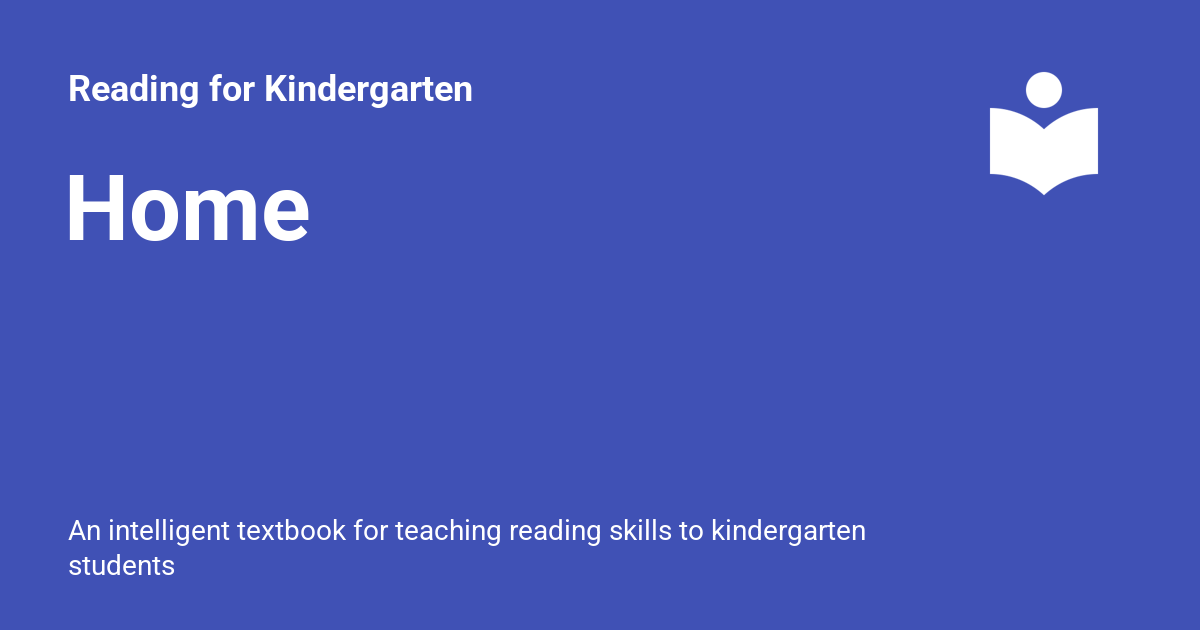
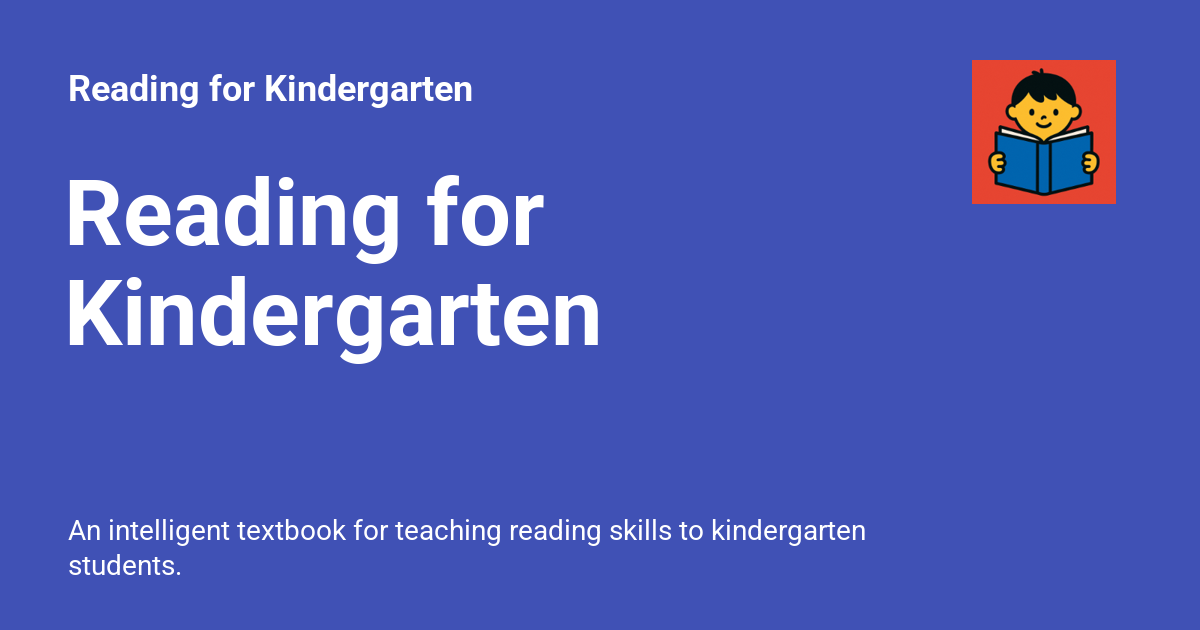
Deployed 79a324a with MkDocs version: 1.6.1

Changed region(s): [[0.0308, 0.4222, 0.5242, 0.573], [0.0617, 0.2714, 0.4625, 0.4222], [0.8017, 0.0905, 0.9558, 0.3317]]

diff --git a/index.html b/index.html
@@ -6,7 +6,7 @@
       <meta charset="utf-8">
       <meta name="viewport" content="width=device-width,initial-scale=1">
       
-        <meta name="description" content="An intelligent textbook for teaching reading skills to kindergarten students">
+        <meta name="description" content="An intelligent textbook for teaching reading skills to kindergarten students.">
       
       
         <meta name="author" content="Dan McCreary">
@@ -24,7 +24,7 @@
     
     
       
-        <title>Reading for Kindergarten</title>
+        <title>Reading for Kindergarten - Reading for Kindergarten</title>
       
     
     
@@ -63,9 +63,9 @@
       
         <meta  property="og:title"  content="Reading for Kindergarten" >
       
-        <meta  property="og:description"  content="An intelligent textbook for teaching reading skills to kindergarten students" >
+        <meta  property="og:description"  content="An intelligent textbook for teaching reading skills to kindergarten students." >
       
-        <meta  property="og:image"  content="https://dmccreary.github.io/reading-for-kindergarten/assets/images/social/index.png" >
+        <meta property="og:image" content="https://dmccreary.github.io/reading-for-kindergarten/img/cover.jpg">
       
         <meta  property="og:image:type"  content="image/png" >
       
@@ -79,9 +79,9 @@
       
         <meta  name="twitter:title"  content="Reading for Kindergarten" >
       
-        <meta  name="twitter:description"  content="An intelligent textbook for teaching reading skills to kindergarten students" >
+        <meta  name="twitter:description"  content="An intelligent textbook for teaching reading skills to kindergarten students." >
       
-        <meta  name="twitter:image"  content="https://dmccreary.github.io/reading-for-kindergarten/assets/images/social/index.png" >
+        <meta name="twitter:image" content="https://dmccreary.github.io/reading-for-kindergarten/img/cover.jpg">
       
     
     
@@ -137,7 +137,7 @@
         <div class="md-header__topic" data-md-component="header-topic">
           <span class="md-ellipsis">
             
-              Home
+              Reading for Kindergarten
             
           </span>
         </div>
